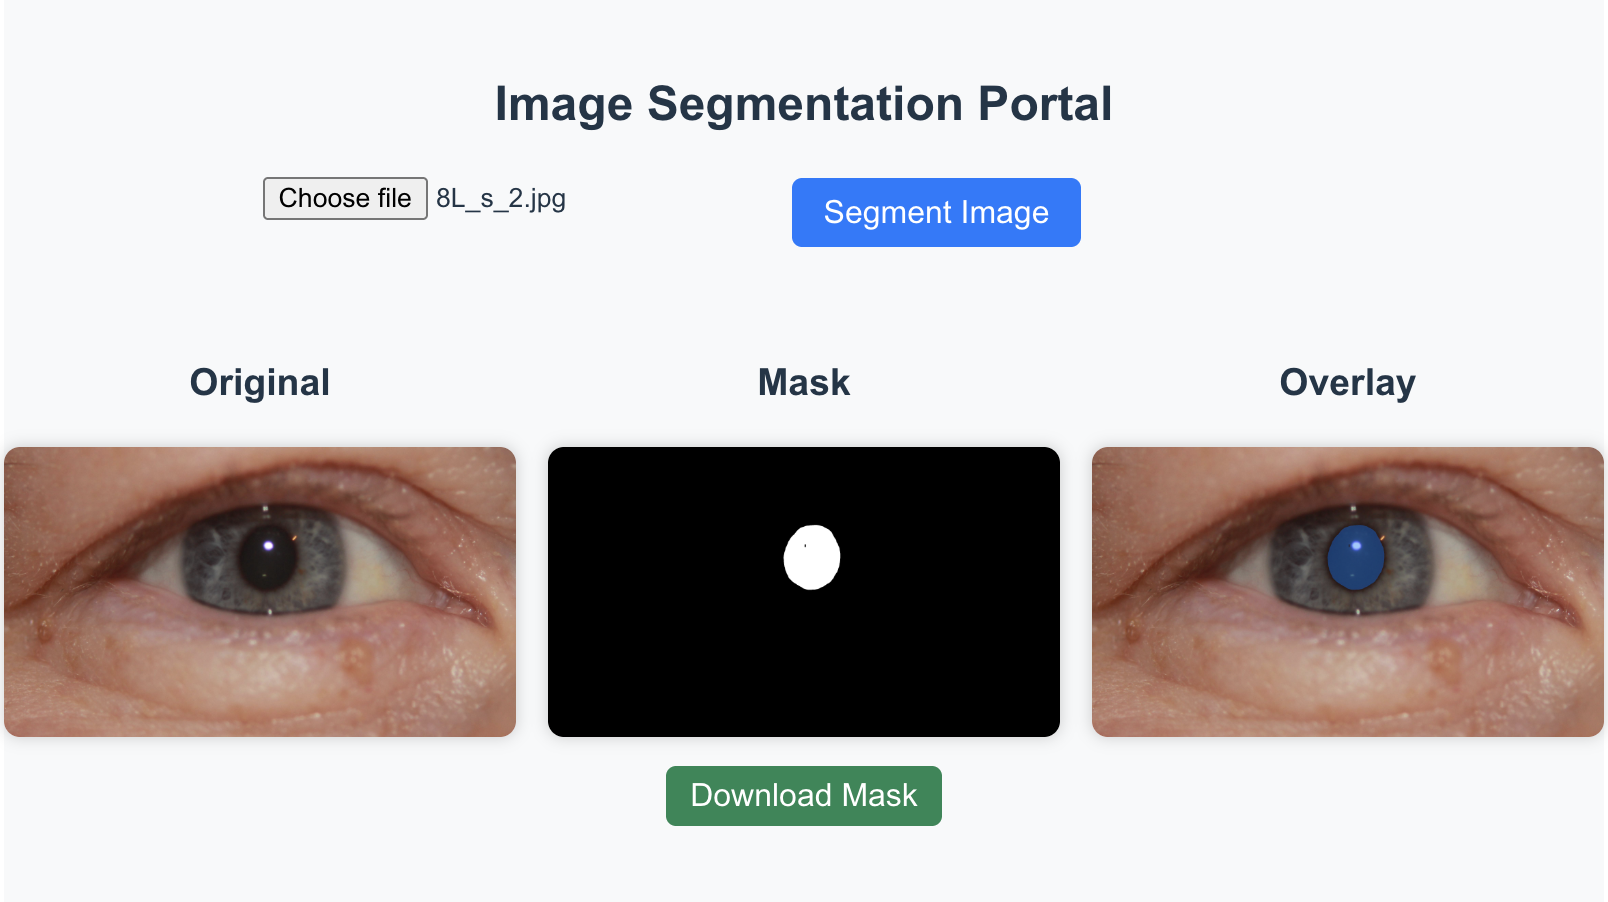
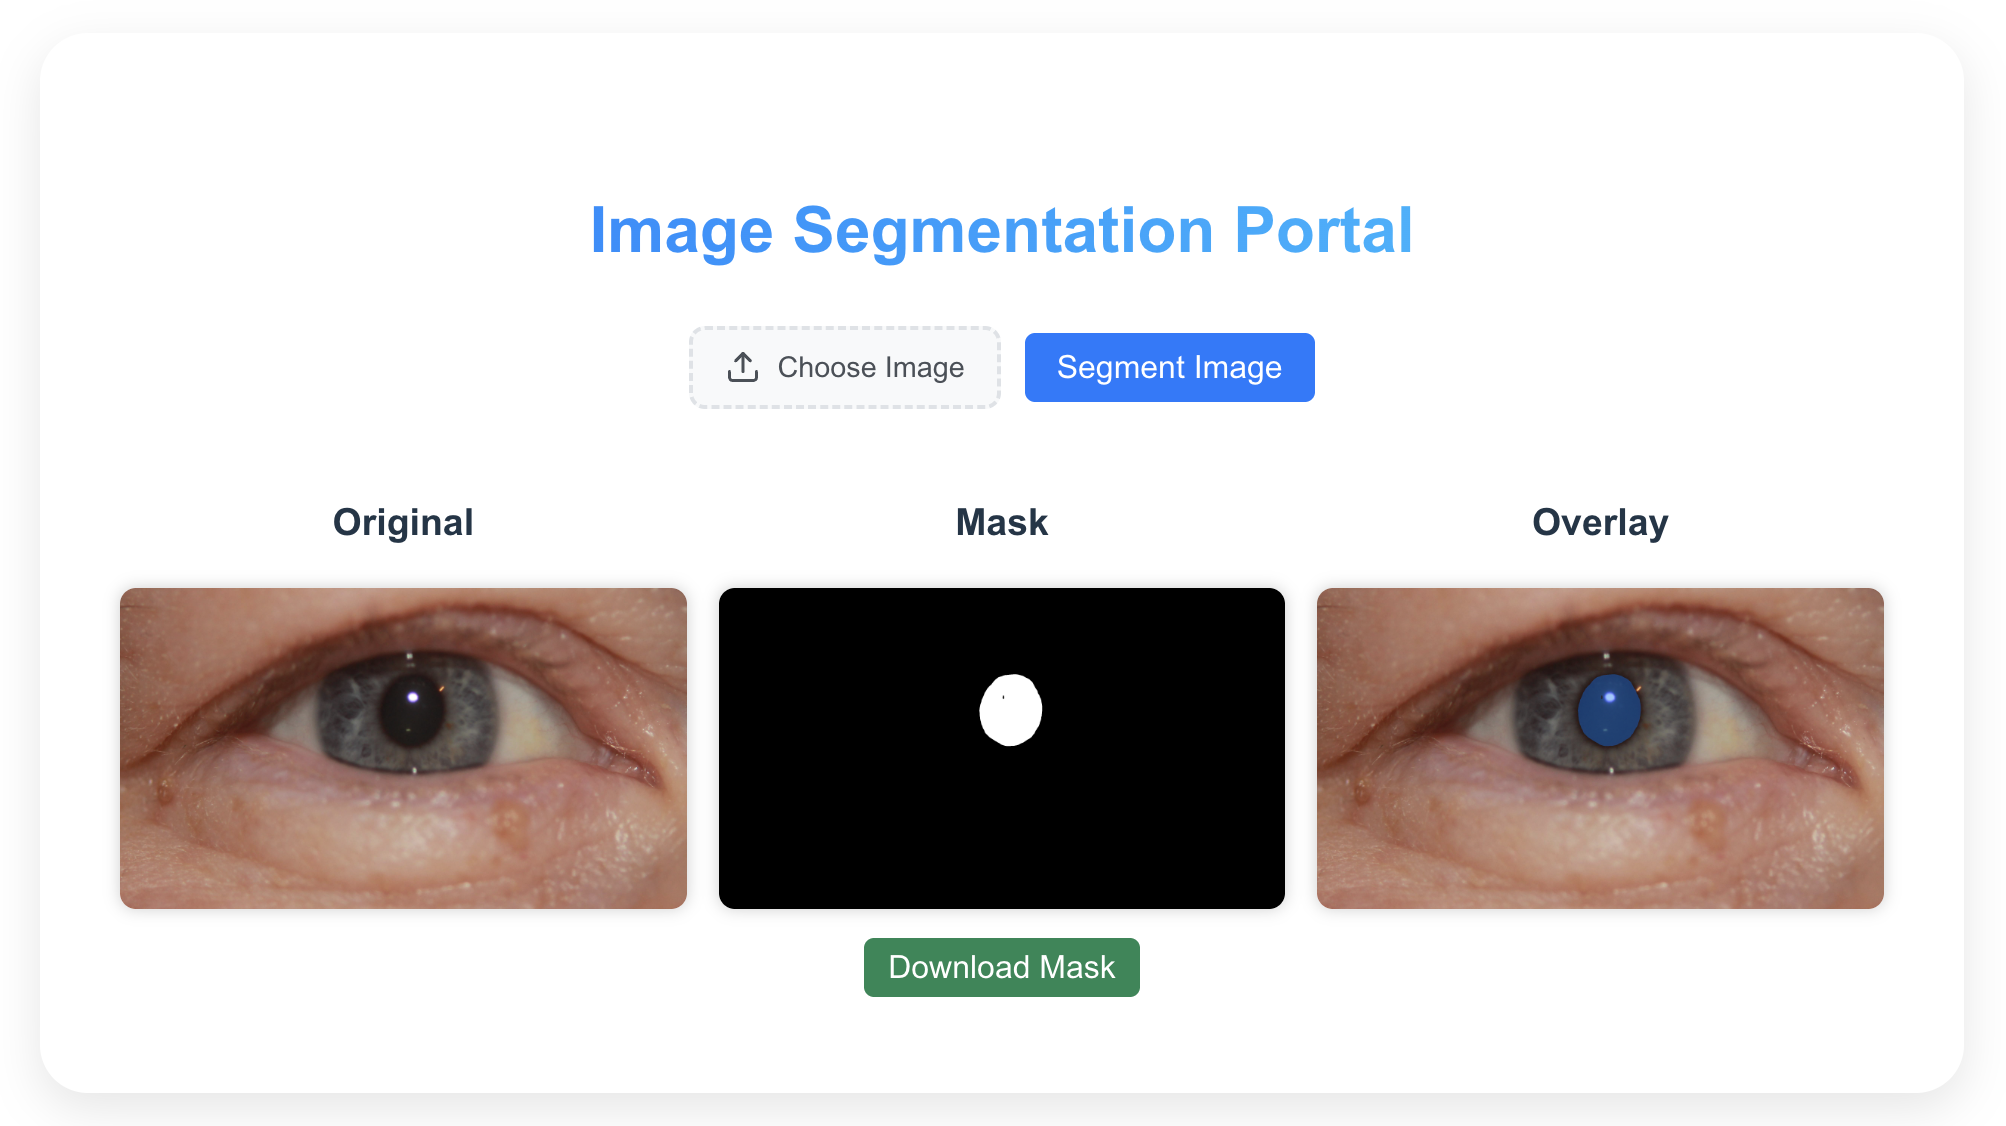
update readme and polish the ui

diff --git a/frontend/eye-segment/src/components/ImagePicker.jsx b/frontend/eye-segment/src/components/ImagePicker.jsx
@@ -1,8 +1,51 @@
 export default function ImagePicker({ onChange }) {
   return (
-    <div style={{ marginBottom: "1rem" }}>
-      <input type="file" accept="image/*" onChange={onChange} />
-    </div>
+    <label
+      style={{
+        display: "inline-flex",
+        alignItems: "center",
+        padding: "0.5rem 1rem",
+        backgroundColor: "#f8f9fa",
+        border: "2px dashed #dee2e6",
+        borderRadius: "8px",
+        cursor: "pointer",
+        transition: "all 0.2s ease",
+        fontFamily: "Arial, sans-serif",
+        fontSize: "0.9rem",
+        color: "#495057",
+      }}
+      onMouseEnter={(e) => {
+        e.currentTarget.style.backgroundColor = "#e9ecef";
+        e.currentTarget.style.borderColor = "#007bff";
+      }}
+      onMouseLeave={(e) => {
+        e.currentTarget.style.backgroundColor = "#f8f9fa";
+        e.currentTarget.style.borderColor = "#dee2e6";
+      }}
+    >
+      <svg
+        width="18"
+        height="18"
+        viewBox="0 0 24 24"
+        fill="none"
+        stroke="currentColor"
+        strokeWidth="2"
+        strokeLinecap="round"
+        strokeLinejoin="round"
+        style={{ marginRight: "0.5rem" }}
+      >
+        <path d="M21 15v4a2 2 0 0 1-2 2H5a2 2 0 0 1-2-2v-4"></path>
+        <polyline points="17 8 12 3 7 8"></polyline>
+        <line x1="12" y1="3" x2="12" y2="15"></line>
+      </svg>
+      Choose Image
+      <input
+        type="file"
+        accept="image/*"
+        onChange={onChange}
+        style={{ display: "none" }}
+      />
+    </label>
   );
 }
 

diff --git a/frontend/eye-segment/src/components/MaskView.jsx b/frontend/eye-segment/src/components/MaskView.jsx
@@ -1,10 +1,12 @@
+import Spinner from "./Spinner.jsx";
+
 export default function MaskView({ loading, src, height }) {
   return (
     <div style={{ textAlign: "center" }}>
       <h3>Mask</h3>
       {loading && (
-        <div style={{ width: "100%", maxWidth: 300, height, margin: "0 auto", display: "flex", alignItems: "center", justifyContent: "center", borderRadius: "8px", boxShadow: "0 0 8px rgba(0,0,0,0.1)", background: "#f1f3f5", color: "#495057", fontWeight: 600 }}>
-          Loading...
+        <div style={{ width: "100%", maxWidth: 300, height, margin: "0 auto", display: "flex", alignItems: "center", justifyContent: "center", borderRadius: "8px", boxShadow: "0 0 8px rgba(0,0,0,0.1)", background: "#f1f3f5" }}>
+          <Spinner />
         </div>
       )}
       {!loading && src && (
@@ -16,6 +18,9 @@ export default function MaskView({ loading, src, height }) {
             </a>
           </div>
         </>
+      )}
+      {!loading && !src && (
+        <div style={{ width: "100%", maxWidth: 300, height, margin: "0 auto", borderRadius: "8px", boxShadow: "0 0 8px rgba(0,0,0,0.05)", background: "#f8f9fa" }} />
       )}
     </div>
   );

diff --git a/frontend/eye-segment/src/components/OverlayView.jsx b/frontend/eye-segment/src/components/OverlayView.jsx
@@ -1,3 +1,5 @@
+import Spinner from "./Spinner.jsx";
+
 export default function OverlayView({ loading, overlayVisible, setOverlayVisible, overlayUrl, fallbackOriginalUrl, height }) {
   return (
     <div style={{ textAlign: "center" }}>
@@ -10,8 +12,8 @@ export default function OverlayView({ loading, overlayVisible, setOverlayVisible
         style={{ cursor: !loading && overlayUrl ? "pointer" : "default" }}
       >
         {loading && (
-          <div style={{ width: "100%", maxWidth: 300, height, margin: "0 auto", display: "flex", alignItems: "center", justifyContent: "center", borderRadius: "8px", boxShadow: "0 0 8px rgba(0,0,0,0.1)", background: "#f1f3f5", color: "#495057", fontWeight: 600 }}>
-            Loading...
+          <div style={{ width: "100%", maxWidth: 300, height, margin: "0 auto", display: "flex", alignItems: "center", justifyContent: "center", borderRadius: "8px", boxShadow: "0 0 8px rgba(0,0,0,0.1)", background: "#f1f3f5" }}>
+            <Spinner />
           </div>
         )}
         {!loading && overlayUrl && overlayVisible && (

diff --git a/frontend/eye-segment/src/App.jsx b/frontend/eye-segment/src/App.jsx
@@ -18,6 +18,7 @@ function App() {
     maskUrl: resultUrl,
     loading,
     error,
+    reset,
   } = useSegmentation();
 
   const overlayUrl = useOverlay({
@@ -30,6 +31,9 @@ function App() {
   const handleFileChange = (e) => {
     const file = e.target.files[0];
     setSelectedFile(file);
+    // Clear previous results when new file is selected
+    reset();
+    setOverlayVisible(true);
     if (file) {
       setPreviewUrl(URL.createObjectURL(file));
       const img = new Image();
@@ -87,15 +91,6 @@ function App() {
       >
         <ImagePicker onChange={handleFileChange} />
         <SegmentationControls onSegment={handleUpload} loading={loading} />
-        <span
-          style={{
-            minWidth: 120,
-            textAlign: "left",
-            color: loading ? "#0d6efd" : error ? "#dc3545" : "#6c757d",
-          }}
-        >
-          {loading ? "Segmenting..." : error ? error : ""}
-        </span>
       </div>
 
       {(previewUrl || resultUrl || overlayUrl) && (

diff --git a/frontend/eye-segment/src/components/Spinner.jsx b/frontend/eye-segment/src/components/Spinner.jsx
@@ -1,0 +1,34 @@
+import { useEffect } from "react";
+
+export default function Spinner({ size = 40, color = "#007bff", borderWidth = 4 }) {
+  useEffect(() => {
+    if (!document.querySelector('style[data-spinner]')) {
+      const style = document.createElement("style");
+      style.setAttribute('data-spinner', 'true');
+      style.textContent = `
+        @keyframes spin {
+          0% { transform: rotate(0deg); }
+          100% { transform: rotate(360deg); }
+        }
+      `;
+      document.head.appendChild(style);
+    }
+  }, []);
+
+  const borderColor = color === "#ffffff" || color === "white" ? "rgba(255,255,255,0.3)" : "#f3f3f3";
+
+  return (
+    <div
+      style={{
+        width: `${size}px`,
+        height: `${size}px`,
+        border: `${borderWidth}px solid ${borderColor}`,
+        borderTop: `${borderWidth}px solid ${color}`,
+        borderRadius: "50%",
+        animation: "spin 1s linear infinite",
+        flexShrink: 0,
+      }}
+    />
+  );
+}
+

diff --git a/frontend/eye-segment/src/components/SegmentationControls.jsx b/frontend/eye-segment/src/components/SegmentationControls.jsx
@@ -1,3 +1,5 @@
+import Spinner from "./Spinner.jsx";
+
 export default function SegmentationControls({ onSegment, loading }) {
   return (
     <button
@@ -9,10 +11,22 @@ export default function SegmentationControls({ onSegment, loading }) {
         color: "white",
         border: "none",
         borderRadius: "5px",
-        cursor: "pointer",
+        cursor: loading ? "not-allowed" : "pointer",
+        display: "flex",
+        alignItems: "center",
+        justifyContent: "center",
+        gap: "0.5rem",
+        opacity: loading ? 0.7 : 1,
       }}
     >
-      {loading ? "Segmenting..." : "Segment Image"}
+      {loading ? (
+        <>
+          <Spinner size={16} color="white" borderWidth={2} />
+          <span>Segmenting...</span>
+        </>
+      ) : (
+        "Segment Image"
+      )}
     </button>
   );
 }

diff --git a/frontend/eye-segment/src/hooks/useSegmentation.js b/frontend/eye-segment/src/hooks/useSegmentation.js
@@ -6,6 +6,11 @@ export function useSegmentation() {
   const [error, setError] = useState(null);
   const [maskUrl, setMaskUrl] = useState(null); 
 
+  const reset = useCallback(() => {
+    setMaskUrl(null);
+    setError(null);
+  }, []);
+
   const runSegmentation = useCallback(async (file) => {
     setLoading(true);
     setError(null);
@@ -22,5 +27,5 @@ export function useSegmentation() {
     }
   }, []);
 
-  return { runSegmentation, maskUrl, loading, error };
+  return { runSegmentation, maskUrl, loading, error, reset };
 }

diff --git a/README.md b/README.md
@@ -1,10 +1,66 @@
 # Eye Segment - Frontend
 
-A modular React (Vite) UI for image segmentation: upload an image, call a backend `/segment`, and show Original/Mask/Overlay.
+A modular React UI for image segmentation: upload an image, call a backend `/segment`, and show Original/Mask/Overlay.
 
 ## Preview
 
 ![Showcase](images/showcase.png)
+
+## Design Architecture
+
+![Architecture](images/arch.png)
+- Frontend: React  
+- Backend: Flask  
+- Model: Hugging Face Segment Anything Model (SAM)  
+- Data Flow:  
+  - React frontend uploads an image  
+  - Flask backend receives the image via POST `/segment`  
+  - SAM model performs segmentation and predicts mask  
+  - The mask (Base64 JSON) is returned to the frontend for display  
+
+## Features
+
+### ✨ Key Features
+
+- **Image Upload**: Upload an image easily using a file picker, with an instant preview of the selected image.  
+- **Image Segmentation**: Click **Segment Image** to run the segmentation model and generate a mask.  
+- **Overlay View**: See the segmentation result directly on top of the original image, and toggle the overlay on or off.  
+- **Mask Download**: Download the generated mask as a PNG file after segmentation is complete.  
+
+## Structure
+```
+src/
+  App.jsx
+  App.css
+  main.jsx
+  index.css
+  components/
+    ImagePicker.jsx
+    SegmentationControls.jsx
+    PreviewPanel.jsx
+    OriginalView.jsx
+    MaskView.jsx
+    OverlayView.jsx
+    Spinner.jsx
+  hooks/
+    useSegmentation.js
+    useOverlay.js
+  services/
+    apiClient.js
+  utils/
+    canvas.js
+```
+
+## Backend on Colab
+
+Due to Apple Silicon (M1/M2) compatibility/performance limits for some float64 ops and model kernels, running the segmentation backend locally on macOS may be difficult or slow. To ensure GPU availability and reproducible performance, the backend is hosted on Google Colab and exposed via a public tunnel (e.g., ngrok).
+
+How to use it with this frontend:
+- Start the Flask/FastAPI backend on Colab and expose endpoints like `/segment`.
+- Obtain a public URL (e.g., `https://<your>.ngrok-free.dev`).
+- In `frontend/eye-segment/.env.local` set:
+  `VITE_BACKEND_URL=https://<your>.ngrok-free.dev`
+- Restart the frontend dev server. The UI will call `${VITE_BACKEND_URL}/segment` with `multipart/form-data` field `image` and expect a JSON array containing a base64 `mask`.
 
 ## Quick start
 
@@ -23,37 +79,3 @@ VITE_BACKEND_URL=http://127.0.0.1:5000
 ```bash
 npm run dev
 ```
-
-## Structure
-```
-src/
-  App.jsx
-  index.css
-  components/
-    ImagePicker.jsx
-    SegmentationControls.jsx
-    PreviewPanel.jsx
-    OriginalView.jsx
-    MaskView.jsx
-    OverlayView.jsx
-  hooks/
-    useSegmentation.js
-    useOverlay.js
-  services/
-    apiClient.js
-  utils/
-    canvas.js
-```
-
-## Flow
-- ImagePicker -> emits File
-- apiClient.segmentImage(File) -> POST ${VITE_BACKEND_URL}/segment -> [{mask: base64}]
-- MaskView shows mask, can download
-- Overlay via utils/canvas.generateOverlay(original, mask) and toggled in OverlayView
-
-## Troubleshooting
-- env not picked up: ensure file at `frontend/eye-segment/.env.local` and restart `npm run dev`
-- connection refused: check `${VITE_BACKEND_URL}/health`
-
-## Scripts
-- `npm run dev`, `npm run build`, `npm run preview`
